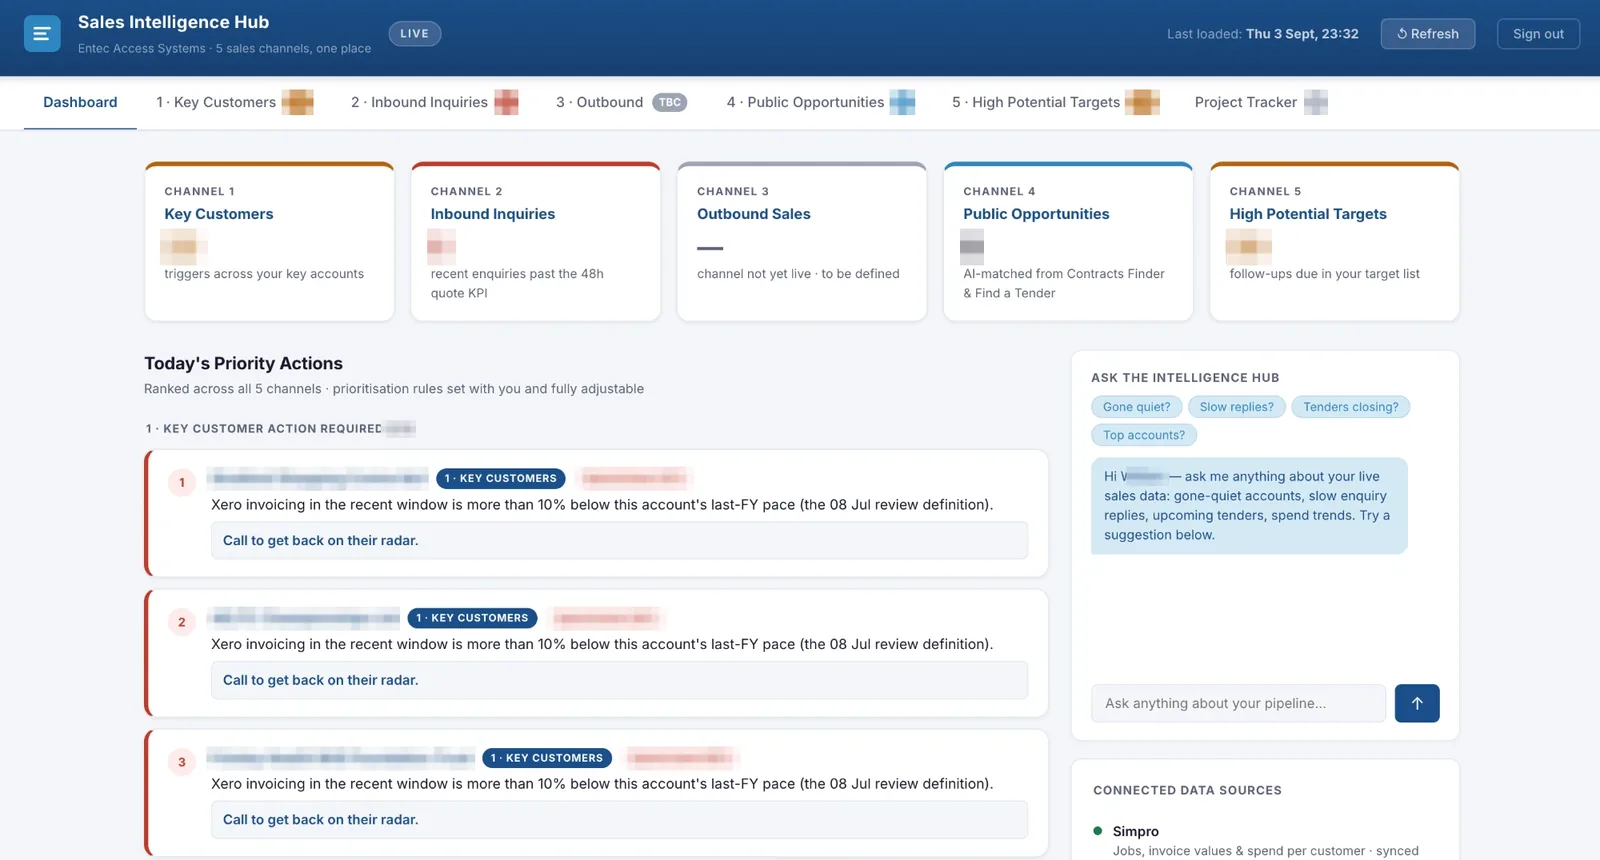
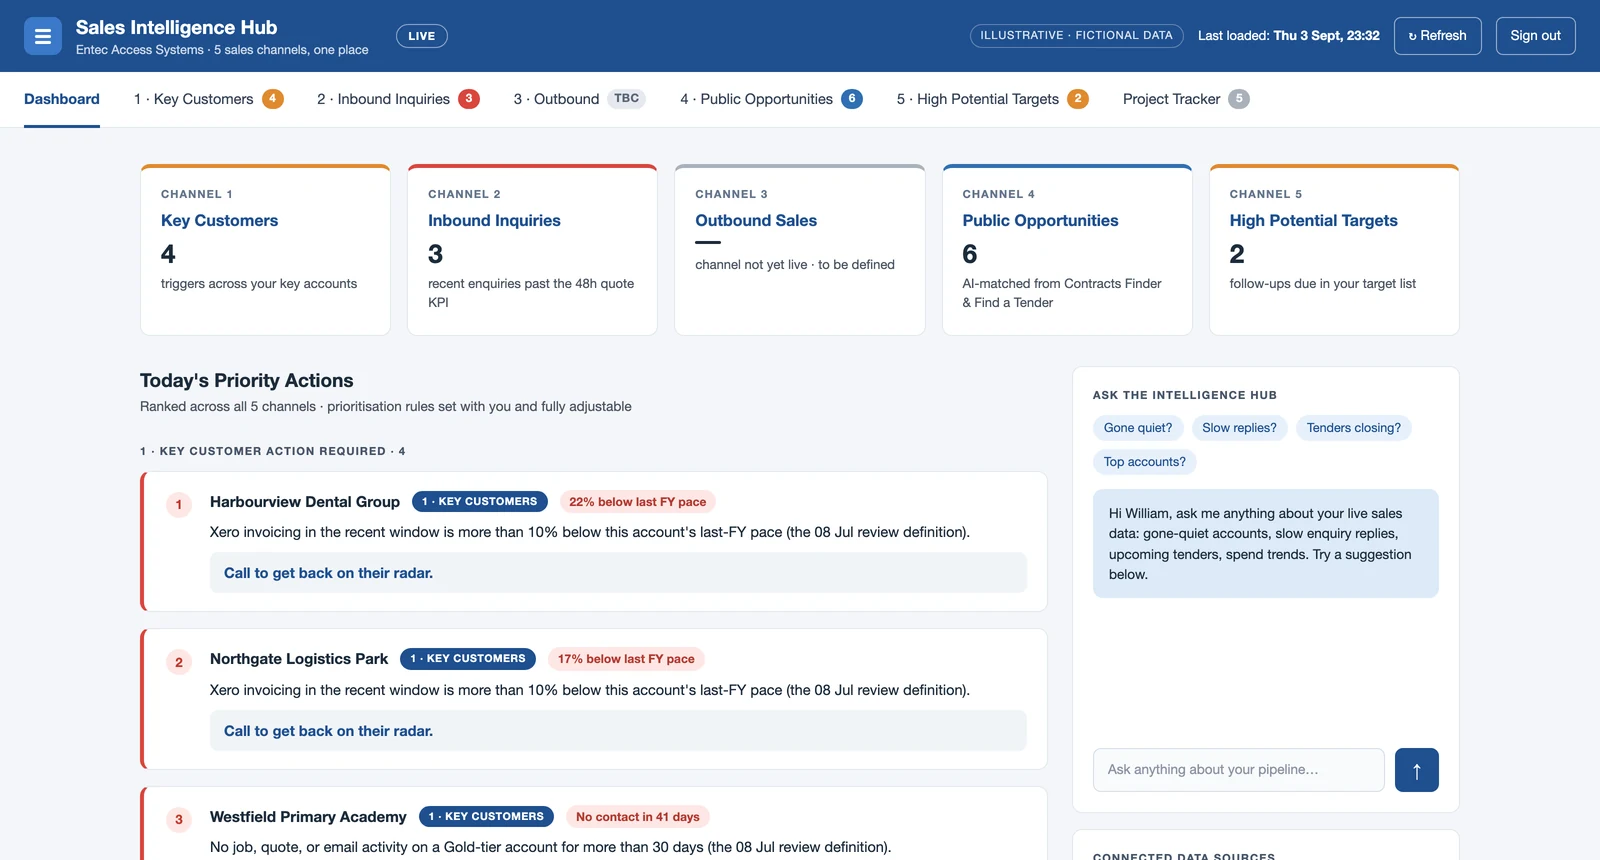
Entec hub image: a recreation with fictional names and figures replaces the blurred screenshot

diff --git a/app.js b/app.js
@@ -330,7 +330,7 @@ document.addEventListener("click", async (e) => {
   }
   if (e.target.closest("[data-enlarge]"))
     showDialog(
-      '<h2 id="dialog-title" class="sr-only">Entec Sales Intelligence Hub</h2><img src="/assets/entec-sales-hub.webp" alt="Entec’s Sales Intelligence Hub, with names and figures blurred.">',
+      '<h2 id="dialog-title" class="sr-only">Entec Sales Intelligence Hub</h2><img src="/assets/entec-sales-hub.webp" alt="Entec’s Sales Intelligence Hub, recreated with fictional names and figures.">',
       true,
     );
 });
